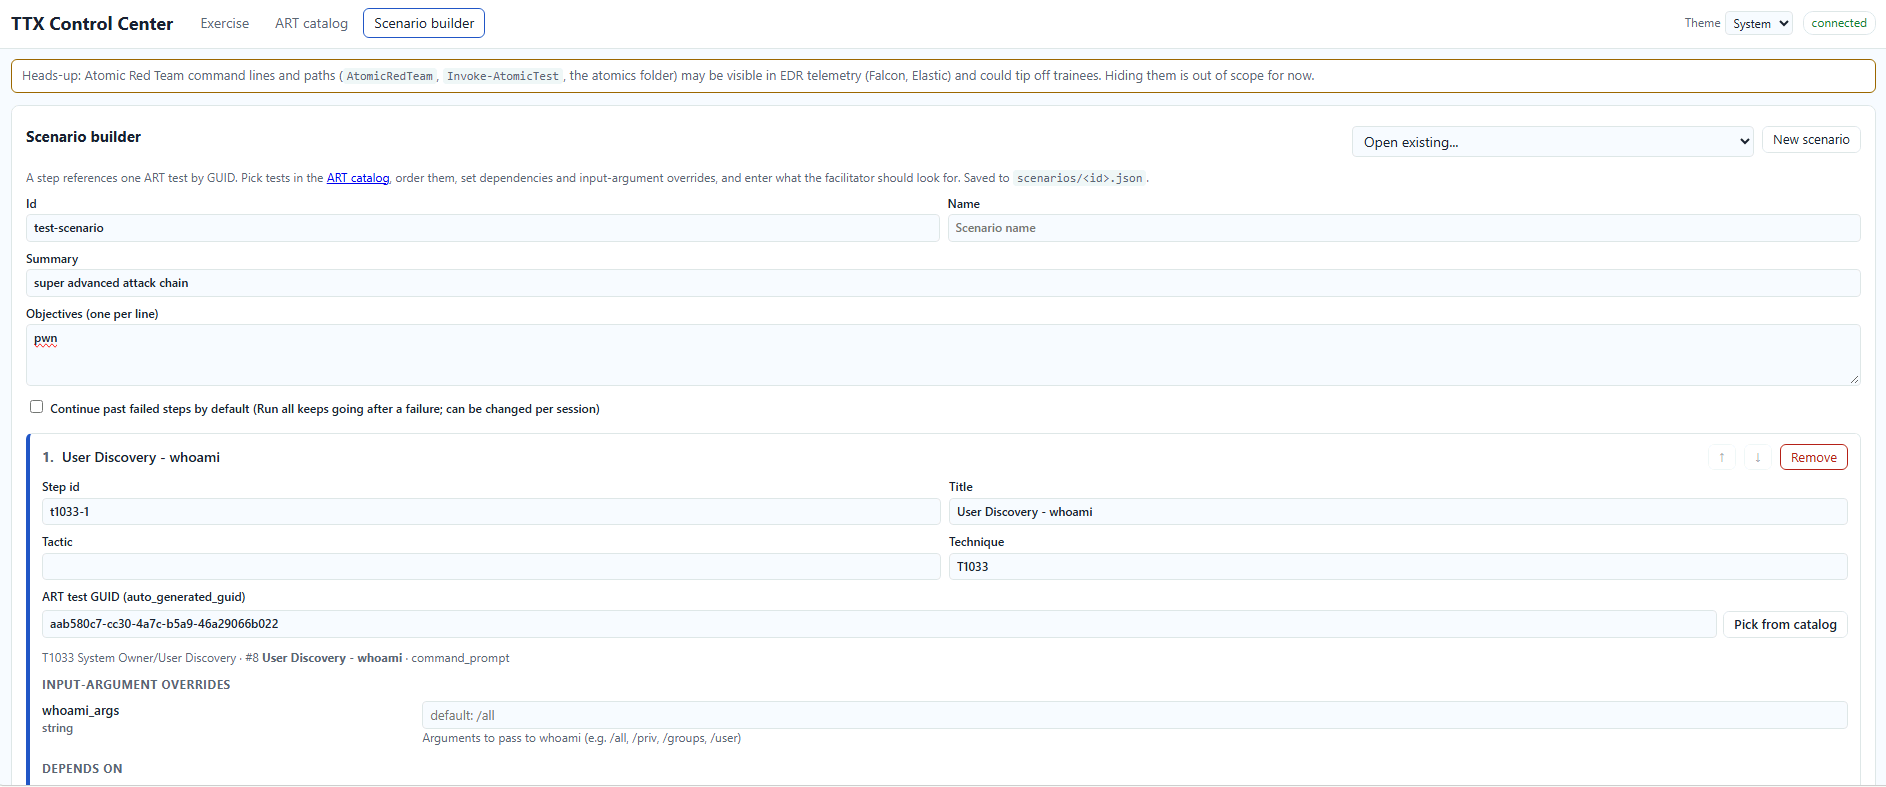
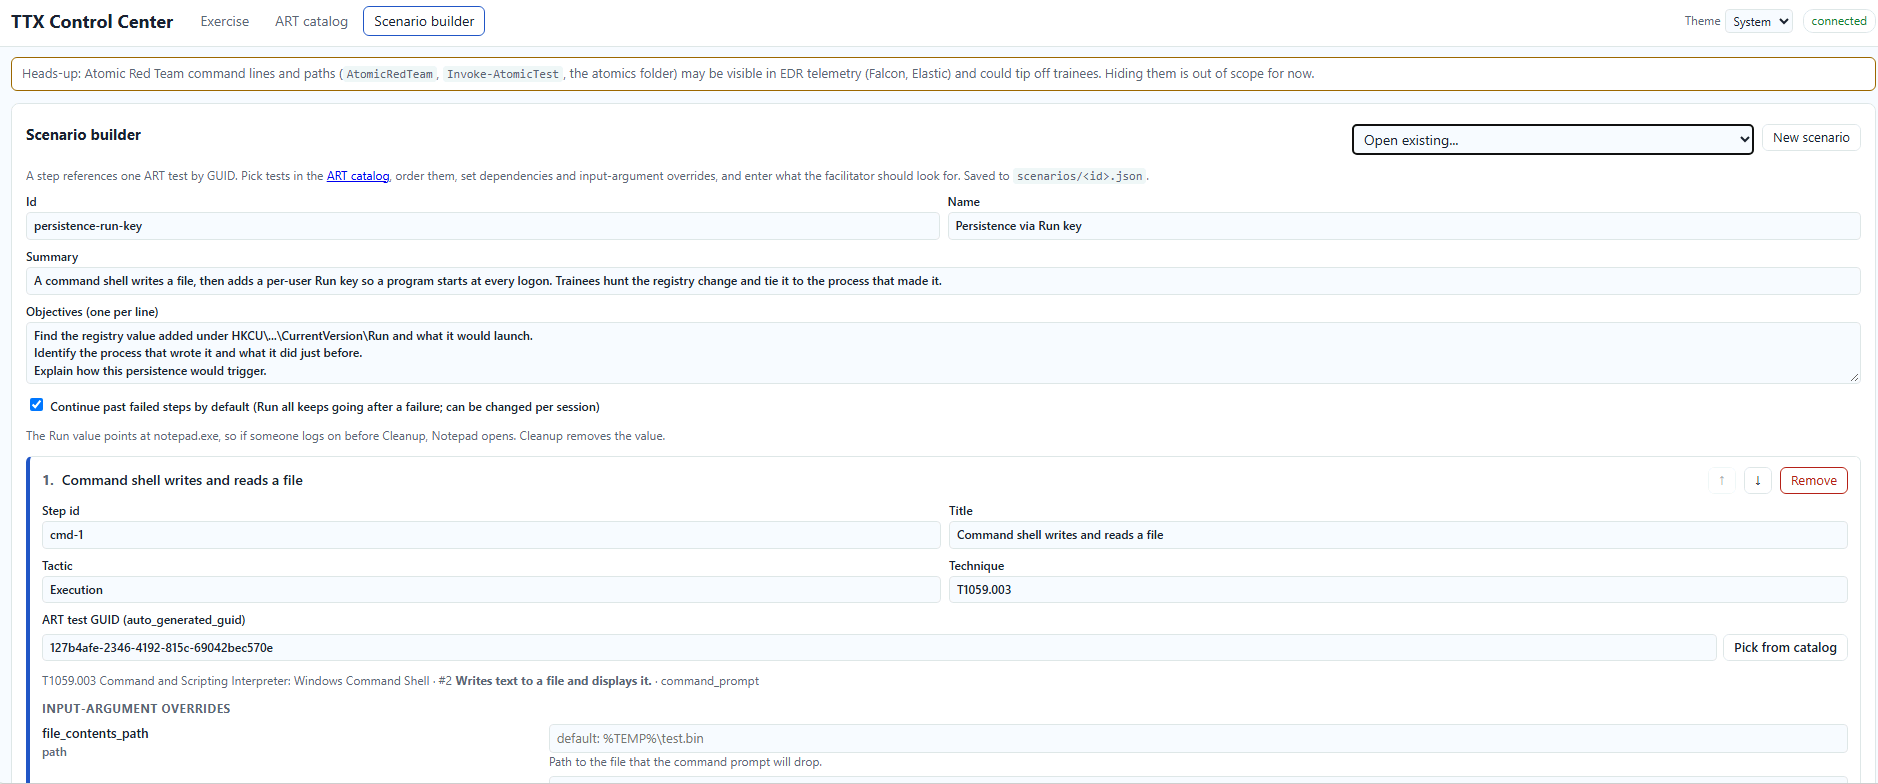
Replace the builder screenshot with a built-in scenario
Claude-Session: https://claude.ai/code/session_011vZSzPXvzsVxAwHcSMUyAo

diff --git a/README.md b/README.md
@@ -16,7 +16,7 @@ Invoke-AtomicRedTeam 2.1.0.
 
 | Exercise | ART catalog | Scenario builder |
 |---|---|---|
-| [![Exercise view: preflight with Elastic Agent, Elastic Defend and Sysmon; a loaded discovery scenario](docs/images/exercise.png)](docs/images/exercise.png) | [![ART catalog: search, flags, and test detail](docs/images/catalog.png)](docs/images/catalog.png) | [![Scenario builder: a step with its ART test and input overrides](docs/images/builder.png)](docs/images/builder.png) |
+| [![Exercise view: preflight with Elastic Agent, Elastic Defend and Sysmon; a loaded discovery scenario](docs/images/exercise.png)](docs/images/exercise.png) | [![ART catalog: search, flags, and test detail](docs/images/catalog.png)](docs/images/catalog.png) | [![Scenario builder: the built-in Persistence via Run key scenario with its first ART step](docs/images/builder.png)](docs/images/builder.png) |
 
 Taken on the lab host (Windows Server, Elastic Agent 9.5.5, ART 2.1.0).
 
